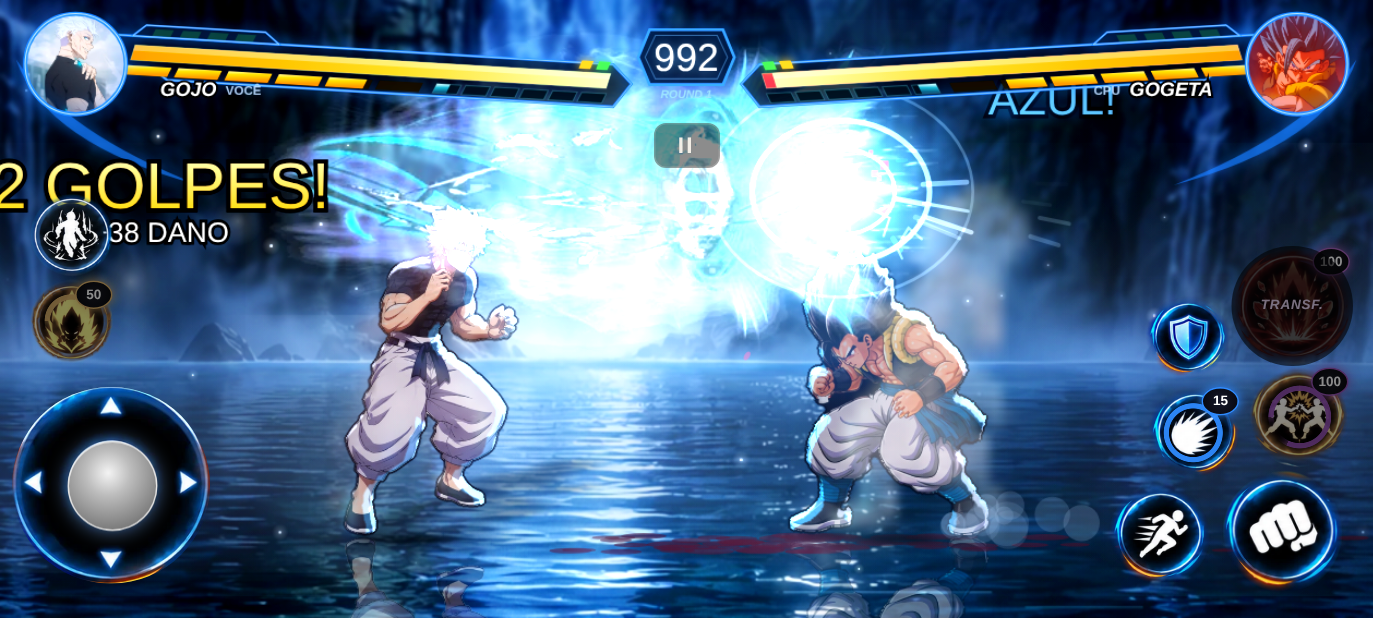
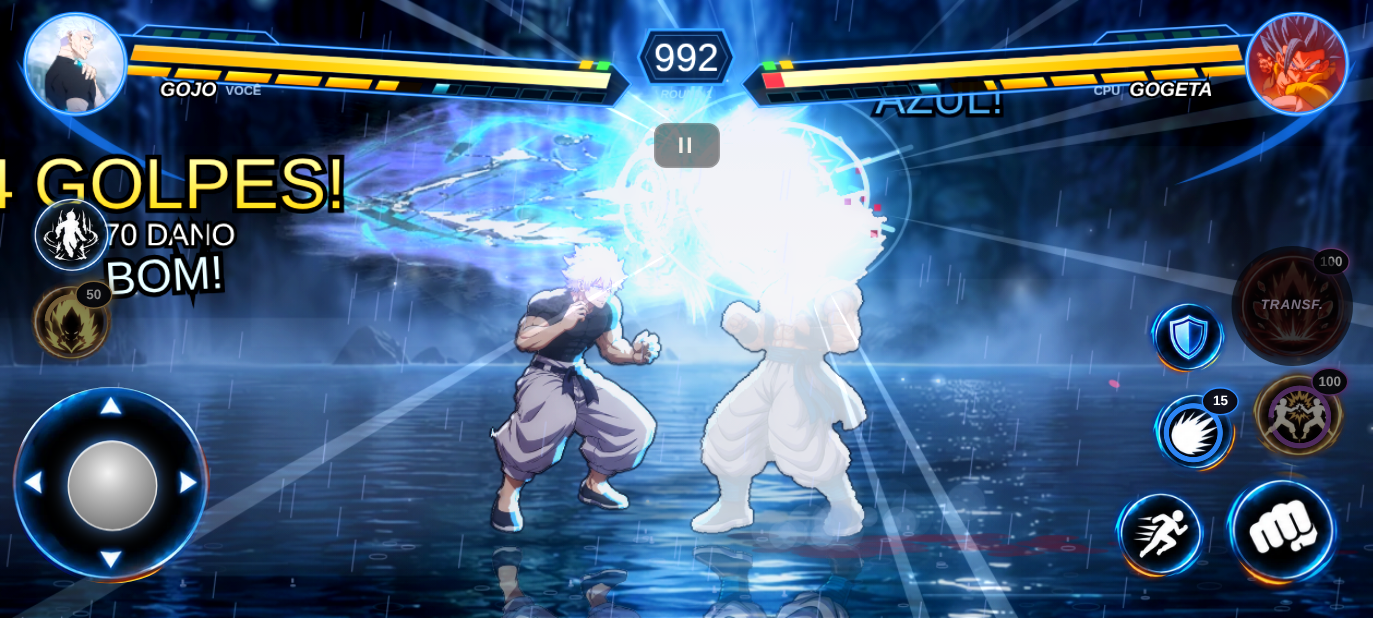
v144: Gojo transformado — aura de chama azul no corpo, raios azuis e fogo azul nas mãos (referência do dono)
Claude-Session: https://claude.ai/code/session_01KtrZTmDkLnY2EE7eHvUsq1

diff --git a/www/index.html b/www/index.html
@@ -3175,7 +3175,25 @@ function drawGj(){if(!GJBOX.length||!GJA.img.complete||!GJA.img.naturalWidth)ret
   ctx.restore()}
 /* aura azul do Gojo (transformado: brilho azul como no anime; carregando: mais forte) */
 const GJW=[];
-function gjAura(f,k){const t=G.frame,cx=f.x,base=f.y,H=255,R=60*(.8+k*.4),on=f.form?1:.55;
+/* v144: Gojo transformado — aura de chama azul no corpo (GIF do dono), raios azuis no corpo e fogo azul nas mãos (referência do dono) */
+const GJAU={"src":"a/717961b7ac2b8f.webp","n":5,"w":360,"h":405};GJAU.img=new Image();GJAU.img.src=GJAU.src;
+function gjFrame(f){try{const k=spriteKey(f),L=SPRH[ssid(f)][k[0]];return L&&L[Math.max(0,Math.min(L.length-1,k[1]|0))]}catch(e){return null}}
+function gjFire(f,k){const t=G.frame,cx=f.x,base=f.y,ch=f.state==='charge';if(!GJAU.img.complete||!GJAU.img.naturalWidth)return;
+  const i=Math.floor(t/4)%GJAU.n,h=(ch?340:300)*(1+.03*Math.sin(t*.6)),w=h*GJAU.w/GJAU.h;
+  ctx.save();ctx.globalCompositeOperation='lighter';ctx.globalAlpha=ch?.62:.46;ctx.translate(cx,base-h*.47);ctx.scale((t>>4)%2?f.facing:-f.facing,1);
+  ctx.drawImage(GJAU.img,0,i*GJAU.h,GJAU.w,GJAU.h,-w/2,-h/2,w,h);ctx.restore()}
+function gjHandFire(x,y,r,t,ph){ctx.save();ctx.globalCompositeOperation='lighter';
+  const g=ctx.createRadialGradient(x,y,0,x,y,r*1.9);g.addColorStop(0,'rgba(235,255,255,.95)');g.addColorStop(.3,'rgba(140,235,255,.75)');g.addColorStop(.7,'rgba(50,160,255,.25)');g.addColorStop(1,'rgba(40,140,255,0)');ctx.fillStyle=g;ctx.beginPath();ctx.arc(x,y,r*1.9,0,TAU);ctx.fill();
+  for(let k=0;k<6;k++){const a=-Math.PI/2+Math.sin(t*.35+k*1.7+ph)*.9,L=r*(1.1+.6*Math.abs(Math.sin(t*.5+k*2.3+ph))),bx=x+Math.cos(a+Math.PI/2)*r*.45*(k%2?1:-1)*.6;
+    ctx.globalAlpha=.55;const gr=ctx.createLinearGradient(bx,y,bx+Math.cos(a)*L,y+Math.sin(a)*L);gr.addColorStop(0,'rgba(160,240,255,.9)');gr.addColorStop(1,'rgba(230,255,255,0)');ctx.fillStyle=gr;
+    ctx.beginPath();ctx.moveTo(bx-r*.25,y);ctx.quadraticCurveTo(bx+Math.cos(a)*L*.5-r*.2,y+Math.sin(a)*L*.5,bx+Math.cos(a)*L,y+Math.sin(a)*L);ctx.quadraticCurveTo(bx+Math.cos(a)*L*.5+r*.2,y+Math.sin(a)*L*.5,bx+r*.25,y);ctx.fill()}
+  ctx.restore()}
+function gjFireFront(f){if(f.hide>0)return;const t=G.frame,F=gjFrame(f),fw=f.facing;
+  zArcs(f,f.x,f.y,ZPAL.blue,f.state==='charge'?6:3,f.state==='charge'?.8:.45);
+  if(!F)return;const hx=f.x+fw*(F.rx-6),hy=f.y-F.ry;gjHandFire(hx,hy,15,t,0);
+  if(['idle','walk','charge','block','crouch','cblock','fly'].includes(f.state))gjHandFire(hx-fw*58,hy-8,12,t,2);
+  if(G.hitstop<=0&&t%4===0)addP({x:hx+rand(-8,8),y:hy+rand(-8,8),vx:rand(-.5,.5),vy:-rand(1,2.2),life:14,max:14,c:Math.random()<.5?'#bff4ff':'#ffffff',type:'glow',sz:rand(2,3.5),g:0})}
+function gjAura(f,k){if(f.form)return gjFire(f,k);const t=G.frame,cx=f.x,base=f.y,H=255,R=60*(.8+k*.4),on=f.form?1:.55;
   if(G.hitstop<=0&&GJW.length<46&&Math.random()<(.45+k*.45)*on){const s=Math.random()<.5?-1:1;GJW.push({o:f,ox:s*(R*(.3+Math.random()*.7)),y:-(Math.random()*H*.6),vy:-(1.6+Math.random()*2),l:0,m:22+Math.random()*14,w:5+Math.random()*7,h:30+Math.random()*34,ph:Math.random()*6})}
   ctx.save();ctx.globalCompositeOperation='lighter';
   const g=ctx.createRadialGradient(cx,base-H*.45,10,cx,base-H*.45,H*.66);g.addColorStop(0,`rgba(60,160,255,${(.16+k*.08)*on})`);g.addColorStop(.6,`rgba(40,120,255,${.07*on})`);g.addColorStop(1,'rgba(40,120,255,0)');ctx.fillStyle=g;ctx.fillRect(cx-H*.75,base-H*1.15,H*1.5,H*1.25);
@@ -3440,7 +3458,7 @@ function mdAura(f,k){if(f.form)mdBolts(f,k);const t=G.frame,cx=f.x,base=f.y,H=25
   for(let i=MDW.length-1;i>=0;i--)if(MDW[i].l>=MDW[i].m)MDW.splice(i,1);
   if(t%6===0)addP({x:cx+rand(-R,R),y:base-rand(20,200),vx:rand(-.3,.3),vy:-rand(.8,1.6),life:24,max:24,c:f.form?'#b98aff':'#ff7a3a',type:'glow',sz:rand(2,3.5),g:0});
   ctx.restore()}
-function drawAura(f,k,c,c2){if(isMd(f))return mdAura(f,k);if(isGj(f)&&!f.form)return gjAura(f,k);if(isGj(f)){c='#8fe2ff';c2='#f2fdff';k=Math.max(k,.55)}c=c||E(f);c2=c2||E2(f);const PU=auraTex('pur',c);if(!PU)return drawAuraOld(f,k,c,c2);
+function drawAura(f,k,c,c2){if(isMd(f))return mdAura(f,k);if(isGj(f))return gjAura(f,k);c=c||E(f);c2=c2||E2(f);const PU=auraTex('pur',c);if(!PU)return drawAuraOld(f,k,c,c2);
   if(isAyl(f)&&f.form){const T=auraTex('a_aura'),A=AUX.a_aura;if(T){const h=(k>=.5?400:340),w=h*A.w/A.h,pu=1+.04*Math.sin(G.frame*.5);ctx.save();ctx.globalCompositeOperation='screen';blitT(T,f.x,f.y-h*.44,w*pu,h*pu,0,(G.frame>>3)%2?1:-1,.5);ctx.restore()}}
   const zk=isZyk(f)&&f.form,zg=isZed(f)&&f.form,t=G.frame+(f.cpu?7:0),cx=f.x,base=f.y,kk=Math.min(1,k*2.1)*(isGj(f)?.5:1),K=Math.min(1.45,Math.max(.95,k*1.6))*(zg?.88:1),big=k>=.5,gr=base>FLOOR-30,fl=f.facing||1;
   ctx.save();ctx.globalCompositeOperation='lighter';
@@ -4123,7 +4141,7 @@ function render(){
   drawVolFX();drawSRBack();
   const order=G.p.slice().sort((a,b)=>(a.state==='attack'||a.state==='super'||!!a.rushKey)-(b.state==='attack'||b.state==='super'||!!b.rushKey));
   drawIceFloor();drawZFX(0);drawDashTrail();drawFZ(0);
-  for(const f of order)if(!(G.trans&&G.trans.f===f)){renderFighter(f);drawIceBody(f)}
+  for(const f of order)if(!(G.trans&&G.trans.f===f)){renderFighter(f);drawIceBody(f);if(isGj(f)&&f.form)gjFireFront(f)}
   drawZFX(1);drawFZ(1);
   for(const f of G.p){if(f.hide>0||(G.trans&&G.trans.f===f))continue;if((f.state==='charge'||(f.ent&&f.ent.pw))&&!isMd(f)&&!isGj(f)){const KC=auraTex('kic',E(f)),A=AUX.kic;if(KC){ctx.save();ctx.globalCompositeOperation='lighter';const h=440,w=h*A.w/A.h;blitF(KC,A.n,((G.frame+5)/3|0),f.x,f.y-h*.42,w,h,-1,.2);ctx.restore()}}}
   for(const p of G.projs)drawProj(p);

diff --git a/GUIA-CLAUDE.md b/GUIA-CLAUDE.md
@@ -199,6 +199,9 @@ O dono mandou uma especificação ("SISTEMA PROFISSIONAL DE COMBATE 2D": animaç
 - Ultimate trocado pelo vídeo novo do dono (Vazio Roxo, 63 quadros, 5,3 s, SEM acelerar: `vt` sem `USP`). Acertos nos quadros 24,28,32,47,51,55 + final. Banner "VAZIO ROXO". Quadros do ultimate antigo apagados.
 - Aura transformado: usa a aura de fogo genérica (`drawAura`) em azul-claro (`#8fe2ff`), sempre no tamanho grande, com brilho reduzido pela metade (senão some o personagem no cenário claro do domínio) e sem raios. Sem transformar continua a aura suave `gjAura`.
 
+## v144 — Gojo: aura do transformado pela referência do dono
+- Substitui a aura de fogo genérica da v143. Atrás do corpo: GIF de chama azul do dono (atlas `GJAU`, 5 quadros 360x405, 'lighter', alfa .46; .62 carregando), virando de lado a cada 16 frames. Na frente do corpo (`gjFireFront`, chamado logo depois do `renderFighter`): raios azuis (`zArcs` azul, mais ao carregar) e fogo azul nas mãos (`gjHandFire`: brilho branco-ciano + línguas de fogo). A mão da frente vem do quadro atual (`rx/ry` do sprite); a mão de trás é estimada (58 px atrás) só em poses paradas/andando/defesa.
+
 ## Pendências / ideias
 - Vegeta transformado: faltam poses próprias de carregar ki, rajada de ki, soco e chute no ar (hoje usa grito da vitória, soco e chute alto). Se o dono mandar, trocar no `build_vegeta_blue2.py` e no mapa `A`.
 - A segunda folha de "gancho para cima" do Vegeta transformado não foi usada.
